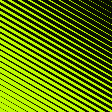
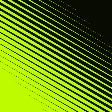
Refine Cutout tones and refresh preset thumbnails

diff --git a/src/perforated-screen.js b/src/perforated-screen.js
@@ -1,19 +1,36 @@
 // CPU adaptation of Paper Shaders' halftone-dots getCircleWithHole treatment.
 // https://github.com/paper-design/shaders/blob/main/packages/shaders/src/shaders/halftone-dots.ts
 // Apache-2.0; license and NOTICE: public/licenses/paper-shaders/.
-// Changes: cached centre samples, rotated screen, analytic pixel antialiasing,
+// Changes: area-calibrated marks, cell-averaged tones, rotated antialiasing,
 // cancellable row chunks, and preservation of the source image's alpha.
-import { samplePaperDarkness } from './paper-screen.js';
+import { sampleDotCellTones } from './dot-cell-tones.js';
+
+const smoothstep = (x) => x * x * (3 - 2 * x);
+
+function settleCoverage(tone) {
+  // Keep central midtones intact, then ease the outer tones into clean paper
+  // and solid ink. Applying this symmetrically also supports light-ink presets
+  // and inversion, without deciding that either palette colour must be black.
+  const edge = Math.min(tone, 1 - tone);
+  if (edge >= .3) return tone;
+  const t = Math.max(0, Math.min(1, (edge - .08) / .22));
+  const settled = edge * smoothstep(t);
+  return tone < .5 ? settled : 1 - settled;
+}
 
 export function* renderPerforatedRows(ctx, source, width, height, settings, ink, paper) {
   const image = ctx.createImageData(width, height);
   const out = image.data;
   const cell = Math.max(1, settings.cellSize);
   const cos = Math.cos(settings.angle), sin = Math.sin(settings.angle);
-  const offsetX = Math.ceil((width * Math.abs(cos) + height * Math.abs(sin)) / (2 * cell)) + 1;
-  const offsetY = Math.ceil((width * Math.abs(sin) + height * Math.abs(cos)) / (2 * cell)) + 1;
-  const stride = offsetX * 2 + 1;
-  const radii = new Float32Array(stride * (offsetY * 2 + 1)).fill(NaN);
+  // Use the same continuous tone controls as Dots. A steep sigmoid followed
+  // by radius scaling flattened faces into nearly solid regions.
+  const cells = yield* sampleDotCellTones(source, width, height, cell, cos, sin, settings);
+  for (let i = 0; i < cells.tones.length; i++) cells.tones[i] = settleCoverage(cells.tones[i]);
+  // The largest circle that fits inside one cell covers pi/4 of its area.
+  // Beyond that, shrink a paper hole as darkness rises. Matching filled area
+  // at the handoff avoids a brightness jump and keeps shadows monotonic.
+  const circleLimit = Math.PI / 4;
   for (let y = 0; y < height; y++) {
     const py = y + .5 - height / 2;
     for (let x = 0; x < width; x++) {
@@ -21,21 +38,18 @@ export function* renderPerforatedRows(ctx, source, width, height, settings, ink,
       const gx = (px * cos + py * sin) / cell;
       const gy = (-px * sin + py * cos) / cell;
       const cx = Math.round(gx), cy = Math.round(gy);
-      const index = (cy + offsetY) * stride + cx + offsetX;
-      if (Number.isNaN(radii[index])) {
-        const sx = (cx * cos - cy * sin) * cell + width / 2;
-        const sy = (cx * sin + cy * cos) * cell + height / 2;
-        radii[index] = .75 * samplePaperDarkness(source, width, height, sx, sy, settings);
-      }
-      const radius = radii[index];
-      const hole = radius >= .5;
-      const r = hole ? radius - .5 : radius;
+      const darkness = cells.tones[(cy + cells.offsetY) * cells.stride + cx + cells.offsetX];
+      const hole = darkness > circleLimit;
+      const r = Math.sqrt((hole ? 1 - darkness : darkness) / Math.PI);
       const dx = gx - cx, dy = gy - cy;
       const distance = Math.hypot(dx, dy);
       const aa = Math.max(.5, (Math.abs(dx) + Math.abs(dy)) / Math.max(distance, .0001)) / cell;
       const t = Math.max(0, Math.min(1, (r - distance + aa) / (2 * aa)));
-      const circle = t * t * (3 - 2 * t);
-      const mask = hole ? 1 - circle : circle;
+      // Antialiasing alone leaves a faint mark even as radius approaches zero.
+      // Fade subpixel marks/holes out so solid regions arrive without a snap.
+      const visibility = smoothstep(Math.min(1, r * cell));
+      const circle = smoothstep(t) * visibility;
+      const mask = darkness <= 0 ? 0 : darkness >= 1 ? 1 : hole ? 1 - circle : circle;
       const alpha = mask * ink[3] / 255;
       const background = paper[3] / 255 * (1 - alpha);
       const total = alpha + background;
@@ -45,7 +59,7 @@ export function* renderPerforatedRows(ctx, source, width, height, settings, ink,
       }
       out[i + 3] = total * source[i + 3];
     }
-    if (y % 24 === 23) yield (y + 1) / height;
+    if (y % 24 === 23) yield .25 + .75 * (y + 1) / height;
   }
   ctx.putImageData(image, 0, 0);
 }

diff --git a/test/halftone-renderer.test.js b/test/halftone-renderer.test.js
@@ -195,7 +195,7 @@ test('Dots ignore invisible RGB when sampling and retain source alpha at rotated
   }
 });
 
-test('Perforated changes round marks into holes in filled cells and preserves alpha', async () => {
+test('Cutout changes round marks into holes in filled cells and preserves alpha', async () => {
   const width = 96, height = 96;
   const source = new Uint8ClampedArray(width * height * 4);
   const fill = (value) => {
@@ -211,9 +211,9 @@ test('Perforated changes round marks into holes in filled cells and preserves al
   renderHalftoneSync(a, source, width, height, perforated);
   assert.ok(a.getImageData(48, 48, 1, 1).data[0] < 10, 'midtone has a round ink mark');
   assert.ok(a.getImageData(55, 55, 1, 1).data[0] > 245, 'its cell corners remain paper');
-  fill(255);
+  fill(200);
   renderHalftoneSync(a, source, width, height, perforated);
-  assert.ok(a.getImageData(48, 48, 1, 1).data[0] > 245, 'bright cell has a paper hole');
+  assert.ok(a.getImageData(48, 48, 1, 1).data[0] > 245, 'dense cell has a paper hole');
   assert.ok(a.getImageData(55, 55, 1, 1).data[0] < 10, 'surrounding cell is filled with ink');
   for (let i = 3; i < source.length; i += 4) source[i] = [0, 64, 128, 255][(i >> 2) % 4];
   const rotated = { ...perforated, angle: .49 };
@@ -226,4 +226,54 @@ test('Perforated changes round marks into holes in filled cells and preserves al
   assert.deepEqual(await renderHalftoneAsync(b, source, width, height, rotated, {
     onProgress() { cancelled = true; }, shouldCancel: () => cancelled
   }), { cancelled: true });
+});
+
+
+test('Cutout preserves tonal steps without reversing shadows or jumping at the dot-to-hole transition', () => {
+  const size = 96;
+  const ctx = createCanvas(size, size).getContext('2d');
+  const source = new Uint8ClampedArray(size * size * 4);
+  let previous = 0;
+  for (let value = 255; value >= 0; value--) {
+    for (let i = 0; i < source.length; i += 4) {
+      source[i] = source[i + 1] = source[i + 2] = value;
+      source[i + 3] = 255;
+    }
+    renderHalftoneSync(ctx, source, size, size, { ...settings, cellSize: 16, screenStyle: 'perforated' });
+    const pixels = ctx.getImageData(0, 0, size, size).data;
+    let coverage = 0;
+    for (let i = 0; i < pixels.length; i += 4) coverage += 1 - pixels[i] / 255;
+    coverage /= size * size;
+    assert.ok(coverage >= previous - .001, `source ${value}: darker input must not lose ink`);
+    if (value >= 77 && value <= 178) assert.ok(Math.abs(coverage - (1 - value / 255)) < .012, `source ${value}: preserve midtone shading`);
+    if (value <= 20) assert.equal(coverage, 1, 'deep shadows settle to solid ink');
+    if (value >= 235) assert.equal(coverage, 0, 'bright highlights settle to clean paper');
+    if (value === 255 || value === 0) assert.equal(coverage, 1 - value / 255, 'pure paper and ink remain clean');
+    previous = coverage;
+  }
+});
+
+
+test('Cutout solid regions survive cell size, rotation, inversion, and transparent paper', () => {
+  const size = 48;
+  const ctx = createCanvas(size, size).getContext('2d');
+  const source = new Uint8ClampedArray(size * size * 4);
+  for (const value of [12, 243]) {
+    for (let i = 0; i < source.length; i += 4) {
+      source[i] = source[i + 1] = source[i + 2] = value;
+      source[i + 3] = 255;
+    }
+    for (const cellSize of [3, 7, 12, 24]) for (const angle of [0, Math.PI / 4]) {
+      for (const invert of [false, true]) for (const paper of ['#fff', 'transparent']) {
+        renderHalftoneSync(ctx, source, size, size, { ...settings, cellSize, angle, invert, paper, screenStyle: 'perforated' });
+        const pixels = ctx.getImageData(0, 0, size, size).data;
+        const solidInk = (value < 128) !== invert;
+        const channel = solidInk || paper === 'transparent' ? 0 : 255;
+        const alpha = !solidInk && paper === 'transparent' ? 0 : 255;
+        for (let i = 0; i < pixels.length; i += 4) {
+          assert.deepEqual(Array.from(pixels.subarray(i, i + 4)), [channel, channel, channel, alpha]);
+        }
+      }
+    }
+  }
 });

diff --git a/src/preset-preview.js b/src/preset-preview.js
@@ -1,7 +1,7 @@
 import { renderHalftoneSync } from './halftone-renderer.js';
 import { BloomPass } from '../bloom-pass.js';
 
-export const PRESET_THUMBNAIL_VERSION = 5;
+export const PRESET_THUMBNAIL_VERSION = 7;
 const cache = new WeakMap();
 
 // Use the same close-up tonal ramp for built-in, saved, and imported presets.
@@ -13,8 +13,13 @@ export function renderPresetPreview(preset) {
   canvas.width = canvas.height = size;
   const ctx = canvas.getContext('2d');
   const ramp = ctx.createLinearGradient(0, size, size, 0);
-  ramp.addColorStop(0, '#171717');
-  ramp.addColorStop(1, '#ededed');
+  // Leave room for solid ink/paper as well as the patterned midtones. A ramp
+  // covering only near-black to near-white makes Cutout look like regular dots
+  // at the menu's 44px size and undersells the palette's stronger colours.
+  ramp.addColorStop(0, '#000000');
+  ramp.addColorStop(.2, '#000000');
+  ramp.addColorStop(.8, '#ffffff');
+  ramp.addColorStop(1, '#ffffff');
   ctx.fillStyle = ramp;
   ctx.fillRect(0, 0, size, size);
   const pixels = ctx.getImageData(0, 0, size, size).data;

diff --git a/src/preset-select.js b/src/preset-select.js
@@ -6,7 +6,7 @@ import { PHONE_LANDSCAPE, PHONE_LAYOUT } from './mobile-layout.js';
 
 const samples = {
   red: { description: 'Punchy crimson poster', image: new URL('./preset-previews/red.png', import.meta.url).href },
-  orange: { description: 'Warm, weathered ink', image: new URL('./preset-previews/orange.png', import.meta.url).href },
+  orange: { description: 'Golden cutouts, solid shadows', image: new URL('./preset-previews/orange.png', import.meta.url).href },
   neon: { description: 'Fluorescent negative glow', image: new URL('./preset-previews/neon.png', import.meta.url).href },
   blue: { description: 'Pale cyanotype grid', image: new URL('./preset-previews/blue.png', import.meta.url).href },
   fine: { description: 'Rounded dots, merging shadows', image: new URL('./preset-previews/fine.png', import.meta.url).href }

diff --git a/src/paper-screen.js b/src/paper-screen.js
@@ -23,7 +23,7 @@ export function samplePaperDarkness(source, width, height, x, y, settings) {
     (y1 * width + x0) * 4, (y1 * width + x1) * 4];
   const weights = [(1 - tx) * (1 - ty), tx * (1 - ty), (1 - tx) * ty, tx * ty];
   // Paper's default contrast .4 maps to a sigmoid slope of 3.7947.
-  const slope = (settings.screenStyle === 'perforated' ? 15 : 15 * Math.pow(.4, 1.5)) * settings.contrast;
+  const slope = 15 * Math.pow(.4, 1.5) * settings.contrast;
   let luma = 0;
   for (let channel = 0; channel < 3; channel++) {
     let value = 0;
